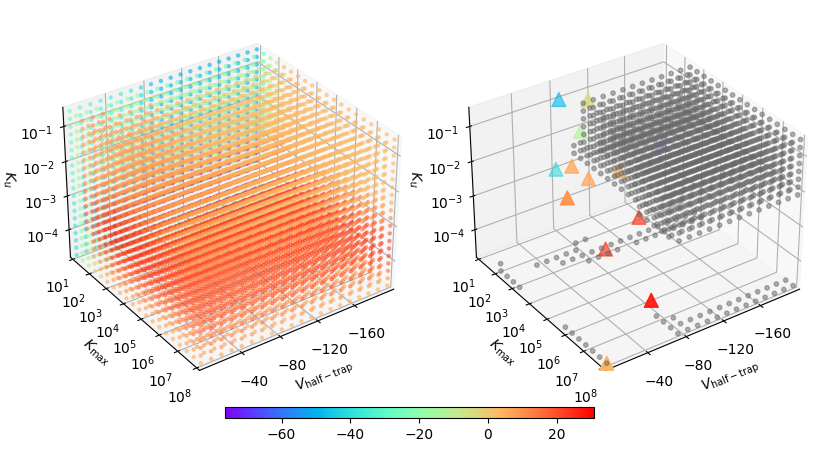
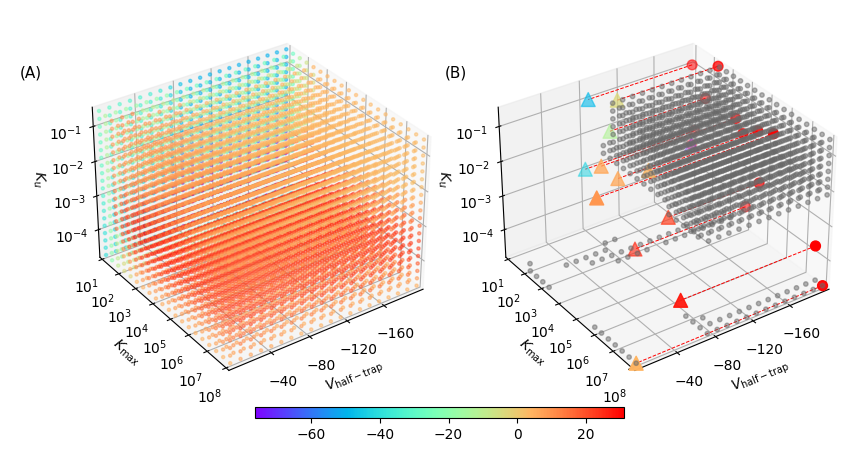
Replot 3D fig of SA with projection  to axis

diff --git a/scripts/fig_scripts/SA_3D.py b/scripts/fig_scripts/SA_3D.py
@@ -47,7 +47,7 @@ Error_drug = np.array(RMSError_drug) * np.array(MError_drug) / \
 
 # Read simulated data of virtual drugs in the parameter space
 data_dir = root_dir + 'parameter_space_exploration/SA_space/' + \
-    APmodel_name + '/'
+    APmodel_name + '_untuned/'
 file_prefix = 'SA_allparam'
 result_files = [data_dir + f for f in os.listdir(data_dir)
                 if f.startswith(file_prefix)]
@@ -151,8 +151,8 @@ scale_map = matplotlib.cm.ScalarMappable(norm=cmap_norm, cmap=cmap)
 
 # Plot points in the parameter space
 axs[0].scatter(Vhalf_range, np.log10(Kmax_range), np.log10(Ku_range),
-            c=scale_map.to_rgba(Error_space),
-            s=5, marker='o', zorder=-10, alpha=0.5)
+               c=scale_map.to_rgba(Error_space),
+               s=5, marker='o', zorder=-10, alpha=0.5)
 axs[0].view_init(32, 55)
 
 # Plot points of all synthetic drugs and those with RMSD within the defined
@@ -165,14 +165,14 @@ axs[1].scatter(Vhalf_chosen, np.log10(Kmax_chosen), np.log10(Ku_chosen),
 axs[1].scatter(Vhalf_list, np.log10(Kmax_list), np.log10(Ku_list),
                c=scale_map.to_rgba(Error_drug),
                s=100, marker='^', zorder=-1)
-# axs[1].scatter(xmin * np.ones(len(Vhalf_list)), np.log10(Kmax_list),
-#                np.log10(Ku_list), s=50, marker='o', zorder=-1, c='red')
+axs[1].scatter(xmin * np.ones(len(Vhalf_list)), np.log10(Kmax_list),
+               np.log10(Ku_list), s=50, marker='o', zorder=-1, c='red')
 
-# for i in range(len(Vhalf_list)):
-#     axs[1].plot([xmin, Vhalf_list[i]],
-#                 [np.log10(Kmax_list[i]), np.log10(Kmax_list[i])],
-#                 zs=[np.log10(Ku_list[i]), np.log10(Ku_list[i])],
-#                 color='red', linestyle='--', linewidth=0.7)
+for i in range(len(Vhalf_list)):
+    axs[1].plot([xmin, Vhalf_list[i]],
+                [np.log10(Kmax_list[i]), np.log10(Kmax_list[i])],
+                zs=[np.log10(Ku_list[i]), np.log10(Ku_list[i])],
+                color='red', linestyle='--', linewidth=0.7)
 axs[1].view_init(32, 55)
 
 # Adjust figure details
@@ -200,8 +200,8 @@ scale_map.set_array(Error_space)
 fig.colorbar(scale_map, orientation='horizontal', ax=axs, cax=cax)
 
 # Add panel labels
-# fig.text(0.075, 0.75, '(A)', fontsize=11)
-# fig.text(0.5, 0.75, '(B)', fontsize=11)
+fig.text(0.075, 0.75, '(A)', fontsize=11)
+fig.text(0.5, 0.75, '(B)', fontsize=11)
 
 # Save figure
 # plt.subplots_adjust(hspace=0)
